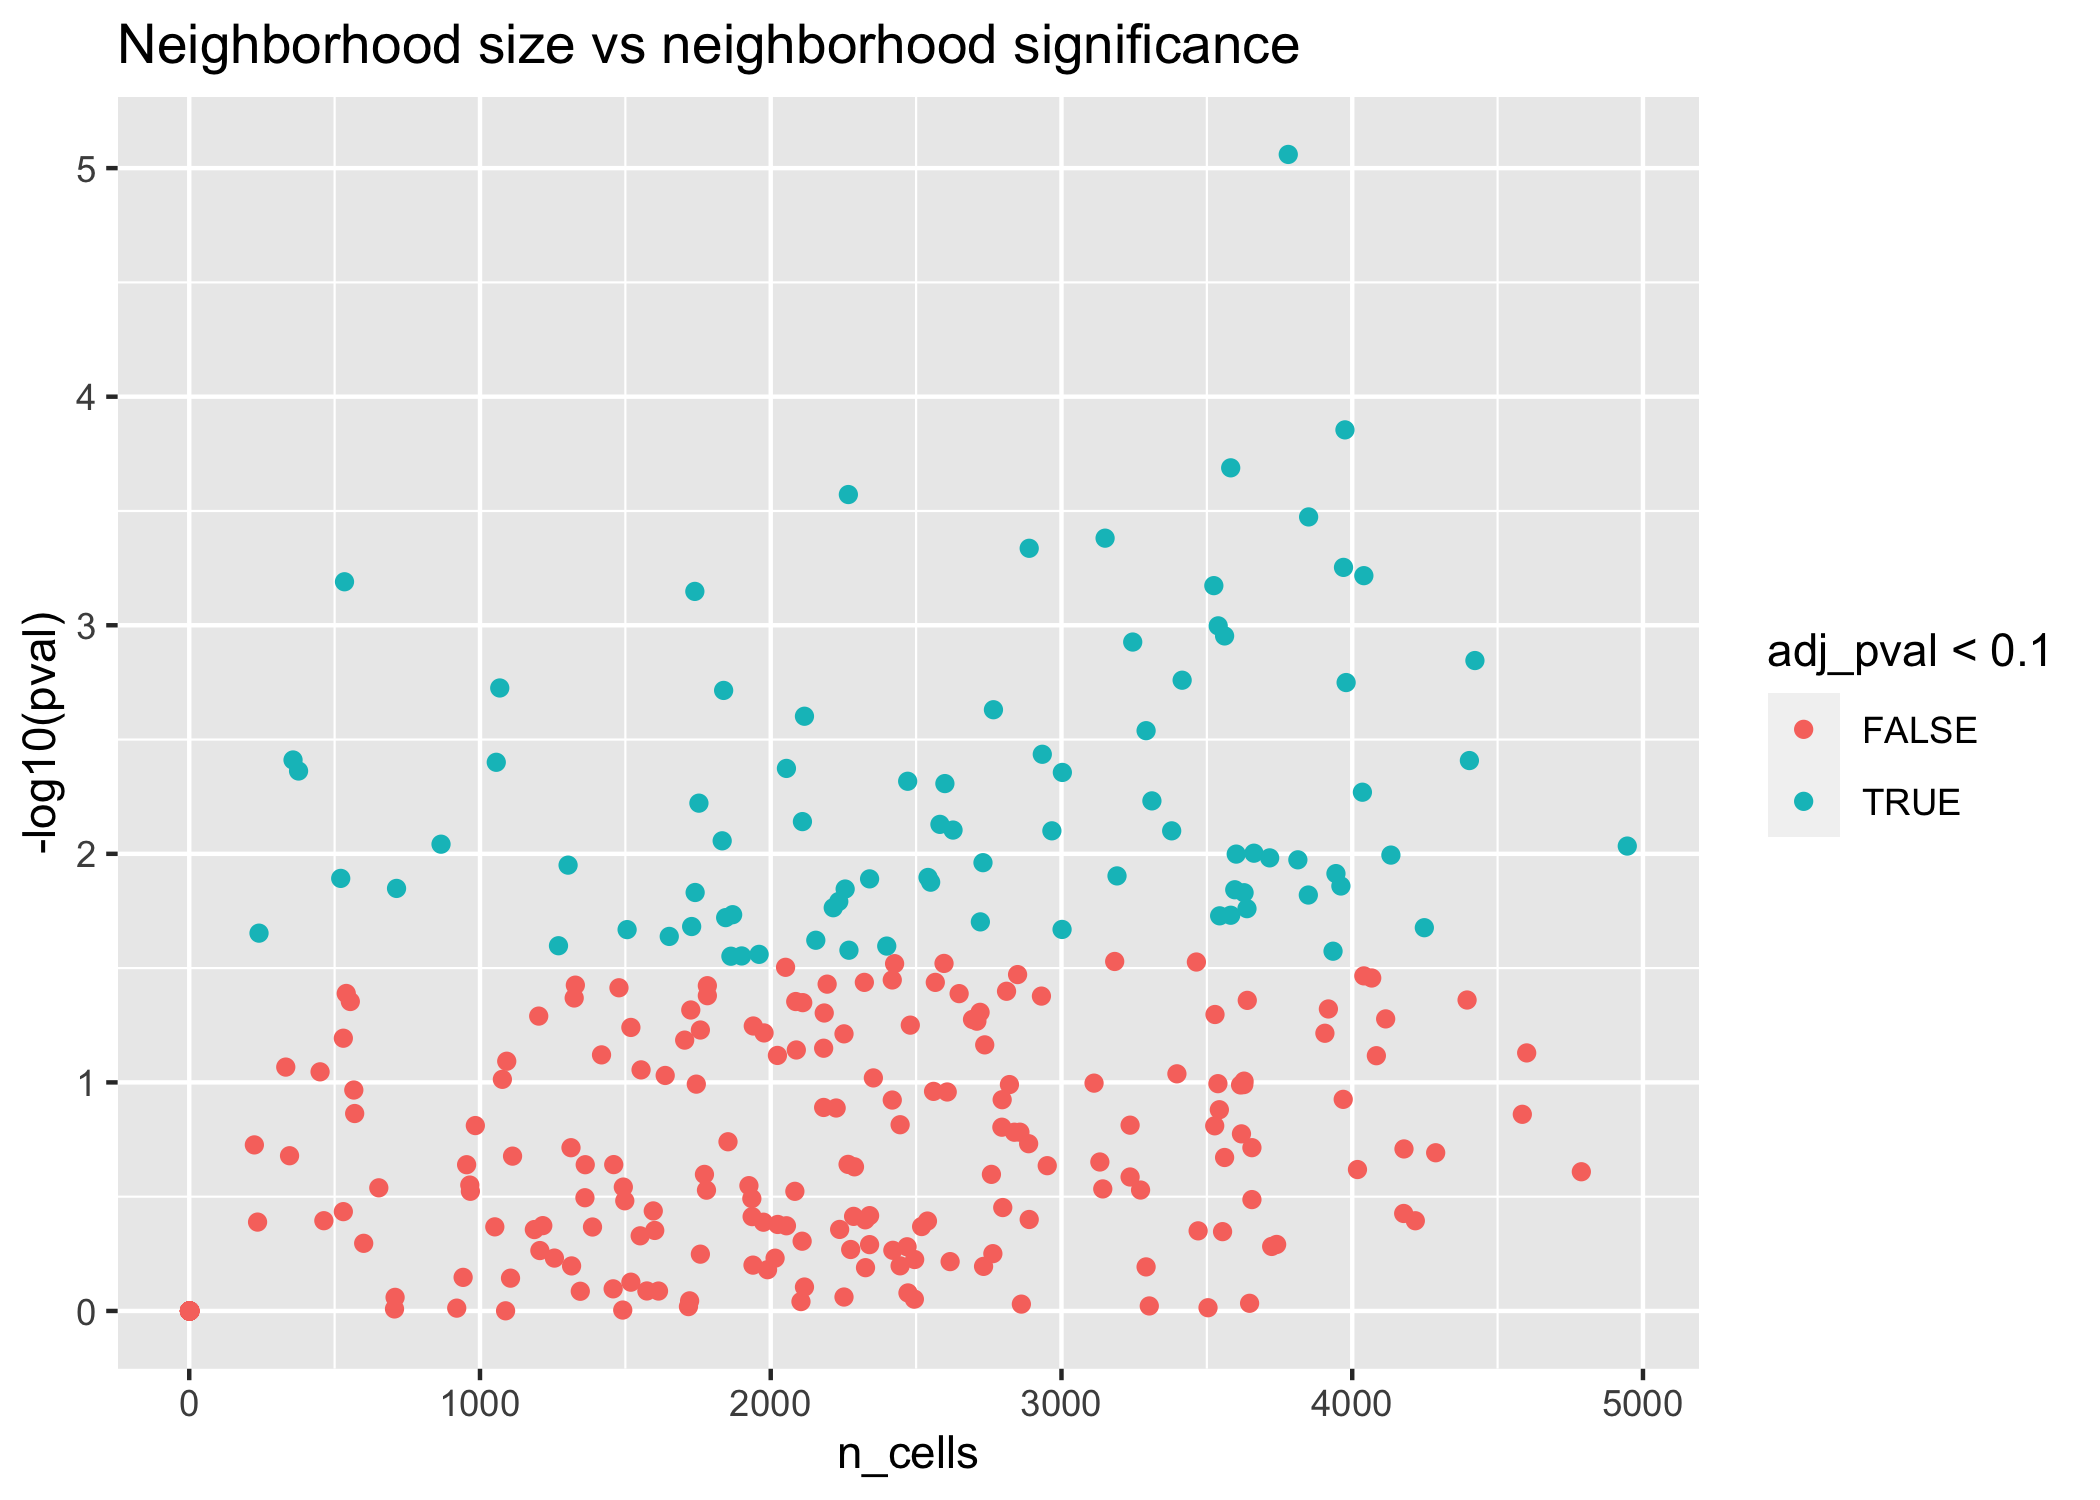
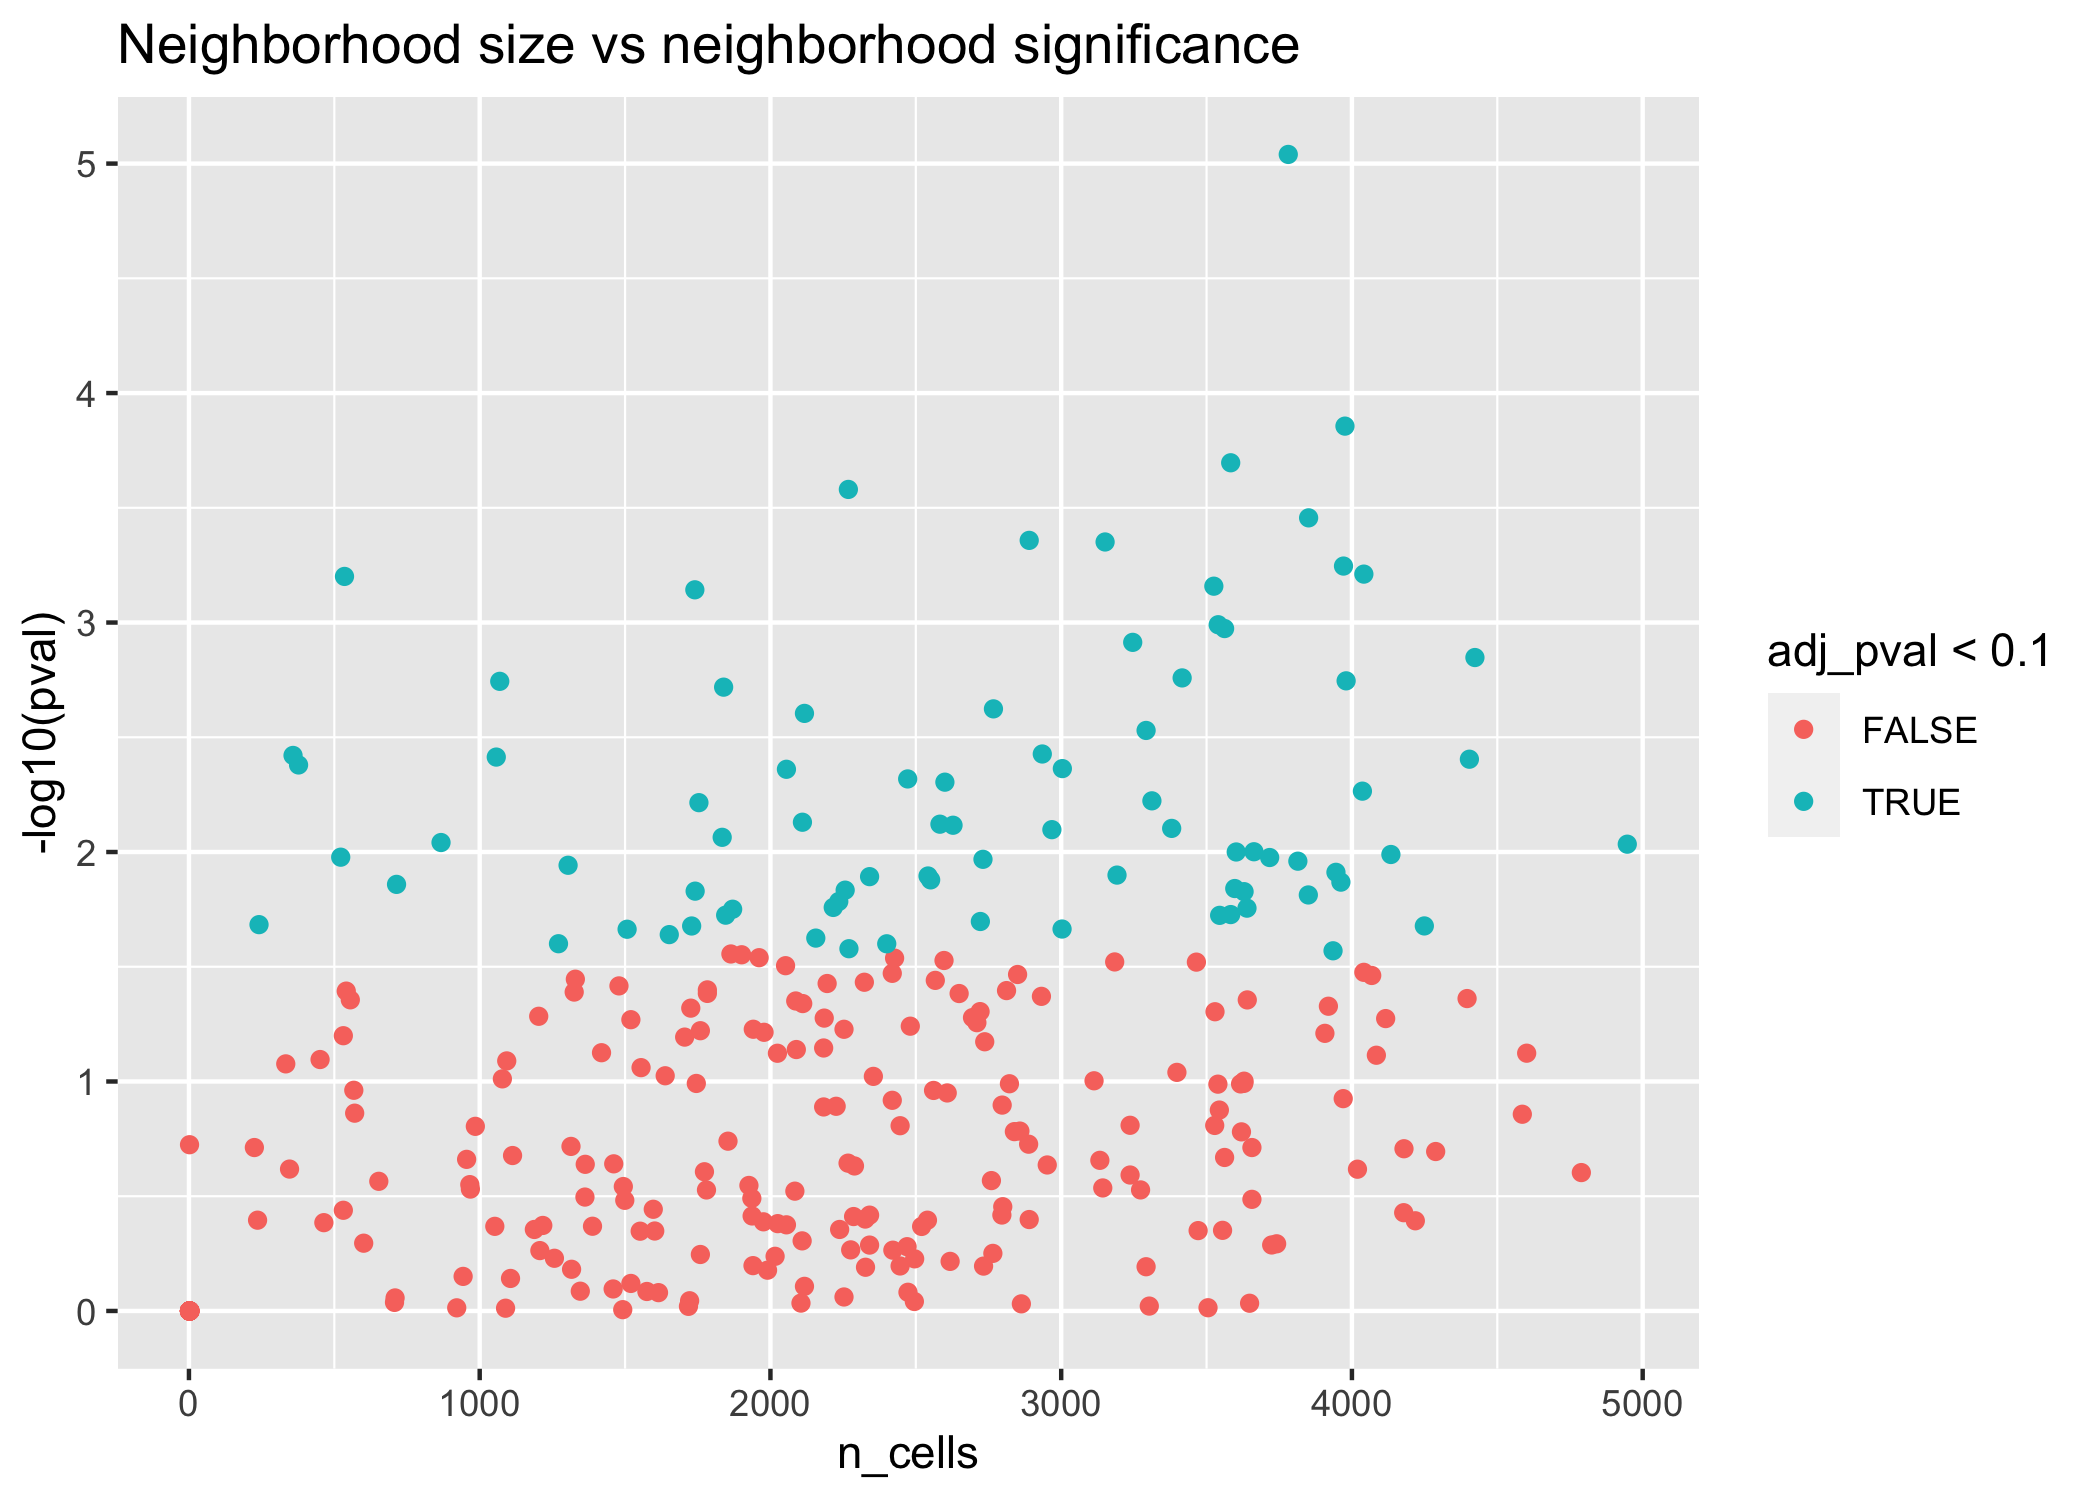
Update README

diff --git a/README.md b/README.md
@@ -7,26 +7,29 @@
 <!-- badges: end -->
 
 The goal of lemur is to enable easy analysis of multi-condition
-single-cell data. Lemur fits latent embedding regression, which means
-that it tries to find the PCA embedding for each condition and
-parameterizes the transition from one embedding to the other. For this
-task, lemur uses geodesic regression on the Grassmann manifold, which is
-solved efficiently using tangent-space linear modelling. The result is
-an interpretable model of the gene expression for arbitrary experimental
+single-cell data. Lemur fits latent embedding regression, which means it
+tries to find the PCA embedding for each condition and parameterizes the
+transition from one embedding to another. For this task, lemur uses
+geodesic regression on the Grassmann manifold, which is solved
+efficiently using tangent-space linear modeling. The result is an
+interpretable model of the gene expression for arbitrary experimental
 designs that can be expressed using a design matrix.
+
+![Schematic of the matrix decomposition at the core of
+LEMUR](man/figures/equation_schematic.png)
 
 ## Installation
 
 Lemur depends on features from
 [`glmGamPoi`](https://github.com/const-ae/glmGamPoi) which are only
 available in the development version, so please install `glmGamPoi` from
-Github before proceeding with lemur’s installation:
+GitHub before proceeding with lemur’s installation:
 
 ``` r
 devtools::install_github("const-ae/glmGamPoi")
 ```
 
-You can install the released version of lemur from Github
+You can install the released version of lemur from Github:
 
 ``` r
 devtools::install_github("const-ae/lemur")
@@ -34,12 +37,13 @@ devtools::install_github("const-ae/lemur")
 
 ## A word of caution
 
-This package is being actively developed and I am still making breaking
-changes. I am delighted if you decide to try out the package and please
-open an issue if you think you found a bug, have an idea for a cool
-feature, or any question about how LEMUR works. Consider this a *beta*
-release with the goal to gather feedback but be aware that code written
-against the current version of lemur might not work in the future.
+This package is being actively developed, and I am still making breaking
+changes. I would be delighted if you decide to try out the package, and
+please open an issue if you think you found a bug, have an idea for a
+cool feature, or have any questions about how LEMUR works. Consider this
+a *beta* release with the goal to gather feedback but be aware that code
+written against the current version of lemur might not work in the
+future.
 
 ## Quickstart
 
@@ -50,16 +54,16 @@ library(SingleCellExperiment)
 fit <- lemur(sce, design = ~ patient_id + condition, n_embedding = 15)
 fit <- align_harmony(fit)   # This step is optional
 fit <- test_de(fit, contrast = cond(condition = "ctrl") - cond(condition = "panobinostat"))
-nei <- find_de_neighborhoods(fit, counts = counts(sce), group_by = vars(patient_id, condition))
+nei <- find_de_neighborhoods(fit, independent_matrix = counts(sce), group_by = vars(patient_id, condition))
 ```
 
 ## Example
 
 We will demonstrate `lemur` using a dataset by Zhao et al. (2021). The
 data consists of tumor biopsies from five glioblastomas which were
-treated using panobinostat or used as a control. Accordingly there are
-ten samples (patient-treatment combinations) which we will analyze using
-a paired experimental design.
+treated using panobinostat or used as a control. Accordingly, we will
+analyze ten samples (patient-treatment combinations) using a paired
+experimental design.
 
 We start by loading some packages which are necessary to analyze the
 data:
@@ -111,9 +115,9 @@ as_tibble(orig_umap) %>%
 We fit the LEMUR model by calling `lemur()`. We provide the experimental
 design using a formula. The elements of the formula can refer to columns
 of the `colData` of the `SingleCellExperiment` object. We also set the
-number of latent dimensions which has a similar interpretation as the
+number of latent dimensions, which has a similar interpretation as the
 number of dimensions in PCA. Optionally, we can further align
-corresponding cells either using manually annotated cell types
+corresponding cells using manually annotated cell types
 (`align_by_grouping`) or an automated alignment procedure (e.g.,
 `align_harmony`, `align_neighbors`).
 
@@ -142,10 +146,10 @@ fit
 ```
 
 The `lemur()` function returns an object that extends
-`SingleCellExperiment` and thus supports subsetting and all the familiar
-data acessor methods (e.g., `nrow`, `assay`, `colData`, `rowData`). In
+`SingleCellExperiment` and thus supports subsetting and all the usual
+data accessor methods (e.g., `nrow`, `assay`, `colData`, `rowData`). In
 addition, `lemur` overloads the `$` operator to allow easy access to
-additional fields that are produced by the LEMUR model. For example the
+additional fields produced by the LEMUR model. For example, the
 low-dimensional embedding can be accessed using `fit$embedding`:
 
 ``` r
@@ -164,7 +168,7 @@ The `test_de` function takes a `lemur_fit_obj` and returns with a new
 assay `"DE"` with the predicted difference between two conditions
 specified in the `contrast`. Note that `lemur` implements a special
 notation for contrasts. Instead of providing a contrast vector or design
-matrix column names, you provide for each *condition* the levels and
+matrix column names, you provide for each *condition* the levels, and
 `lemur` automatically forms the contrast vector. This makes the contrast
 more readable.
 
@@ -196,30 +200,30 @@ the function uses a pseudobulked differential expression test to confirm
 the gene expression differences on the count level.
 
 ``` r
-neighborhoods <- find_de_neighborhoods(fit, counts = counts(glioblastoma_example_data),
+neighborhoods <- find_de_neighborhoods(fit, independent_matrix = counts(glioblastoma_example_data),
                                       group_by = vars(patient_id, condition),
                                       include_complement = FALSE, verbose = FALSE)
-#> dimnames(.) <- NULL translated to
-#> dimnames(.) <- list(NULL,NULL)
+
 as_tibble(neighborhoods) %>%
   arrange(pval) %>%
   left_join(as_tibble(rowData(fit)), by = c("name" = "gene_id"))
 #> # A tibble: 300 × 16
-#>    name        region indices n_cells   mean    pval adj_p…¹ f_sta…²   df1   df2
-#>    <chr>       <chr>  <I<lis>   <int>  <dbl>   <dbl>   <dbl>   <dbl> <int> <dbl>
-#>  1 ENSG000001… 1      <int>      3780  1.32  8.71e-6 0.00261   140.      1  6.80
-#>  2 ENSG000001… 1      <int>      3975  2.08  1.40e-4 0.0178     58.6     1  6.80
-#>  3 ENSG000001… 1      <int>      3582 -0.538 2.05e-4 0.0178     51.7     1  6.80
-#>  4 ENSG000001… 1      <int>      2267 -0.369 2.68e-4 0.0178     47.3     1  6.80
-#>  5 ENSG000001… 1      <int>      3850  0.637 3.36e-4 0.0178     43.9     1  6.80
-#>  6 ENSG000000… 1      <int>      3150 -0.290 4.16e-4 0.0178     40.9     1  6.80
-#>  7 ENSG000001… 1      <int>      2889 -1.49  4.61e-4 0.0178     39.5     1  6.80
-#>  8 ENSG000001… 1      <int>      3970  0.596 5.58e-4 0.0178     37.0     1  6.80
-#>  9 ENSG000000… 1      <int>      4040 -0.422 6.07e-4 0.0178     36.0     1  6.80
-#> 10 ENSG000001… 1      <int>       534  0.641 6.45e-4 0.0178     35.2     1  6.80
+#>    name      selec…¹ indices n_cells sel_s…²    pval adj_p…³ f_sta…⁴   df1   df2
+#>    <chr>     <lgl>   <I<lis>   <int>   <dbl>   <dbl>   <dbl>   <dbl> <int> <dbl>
+#>  1 ENSG0000… TRUE    <int>      3781    90.9 9.12e-6 0.00274   140.      1  6.77
+#>  2 ENSG0000… TRUE    <int>      3976   234.  1.39e-4 0.0180     59.1     1  6.77
+#>  3 ENSG0000… TRUE    <int>      3583   -96.5 2.01e-4 0.0180     52.4     1  6.77
+#>  4 ENSG0000… TRUE    <int>      2268   -42.6 2.63e-4 0.0180     48.0     1  6.77
+#>  5 ENSG0000… TRUE    <int>      3851   104.  3.50e-4 0.0180     43.6     1  6.77
+#>  6 ENSG0000… TRUE    <int>      2890  -189.  4.38e-4 0.0180     40.4     1  6.77
+#>  7 ENSG0000… TRUE    <int>      3151   -70.6 4.46e-4 0.0180     40.2     1  6.77
+#>  8 ENSG0000… TRUE    <int>      3971   104.  5.67e-4 0.0180     37.0     1  6.77
+#>  9 ENSG0000… TRUE    <int>      4041  -163.  6.15e-4 0.0180     36.0     1  6.77
+#> 10 ENSG0000… TRUE    <int>       535    42.7 6.30e-4 0.0180     35.7     1  6.77
 #> # … with 290 more rows, 6 more variables: lfc <dbl>, symbol <chr>,
 #> #   chromosome <fct>, gene_length <int>, strand. <fct>, source <fct>, and
-#> #   abbreviated variable names ¹adj_pval, ²f_statistic
+#> #   abbreviated variable names ¹selection, ²sel_statistic, ³adj_pval,
+#> #   ⁴f_statistic
 ```
 
 We can now specifically select regions with significant differential
@@ -263,8 +267,8 @@ as_tibble(umap) %>%
 
 <img src="man/figures/README-umap_de3-1.png" width="100%" />
 
-To get a better idea of the expression differences across all genes, we
-make a vulcano plot of the differential expression results.
+We make a volcano plot of the differential expression results to better
+understand the expression differences across all genes.
 
 ``` r
 neighborhoods %>%
@@ -283,6 +287,50 @@ neighborhoods %>%
 ```
 
 <img src="man/figures/README-volcano_plot-2.png" width="100%" />
+
+# FAQ
+
+> I have already integrated my data using Harmony / MNN / Seurat. Can I
+> call `lemur` directly with the aligned data?
+
+No. You need to call `lemur` with the unaligned data so that it can
+learn how much the expression of each gene changes between conditions.
+What you can do, though, is to use the aligned data as a template for
+lemur’s alignment step (`align_template`).
+
+> Can I call lemur with
+> [sctransformed](https://github.com/satijalab/sctransform) instead of
+> log-transformed data?
+
+Yes. You can call lemur with any variance stabilized count matrix. Based
+on a [previous
+project](https://www.biorxiv.org/content/10.1101/2021.06.24.449781v4), I
+recommend to use log-transformation, but other methods will work just
+fine.
+
+> My data appears less integrated after calling `lemur()` than before.
+> What is happening?!
+
+This is a known issue and can be caused if the data has large
+compositional shifts (for example, if one cell type disappears). The
+problem is that the initial linear regression step, which centers the
+conditions relative to each other, overcorrects and introduces a
+consistent shift in the latent space. I am currently trying to develop a
+generic solution for this problem, but until this is implemented, you
+can manually fix the regression coefficients:
+
+``` r
+fit <- lemur(sce, design = ~ patient_id + condition, n_embedding = 15, linear_coefficients = 0)
+```
+
+> The conditions still separate if I plot the data using UMAP / tSNE.
+> Even after calling `align_harmony` / `align_neighbors`. What should I
+> do?
+
+You can try to increase `n_embedding`. If this still does not help,
+there is little use in inferring differential expression neighborhoods.
+But as I haven’t encountered such a dataset yet, I would like to try it
+out myself. If you can share the data publicly, please open an issue.
 
 # Session Info
 
@@ -314,7 +362,7 @@ sessionInfo()
 #> [15] GenomeInfoDb_1.34.9         IRanges_2.32.0             
 #> [17] S4Vectors_0.36.2            BiocGenerics_0.44.0        
 #> [19] MatrixGenerics_1.10.0       matrixStats_0.63.0         
-#> [21] lemur_0.0.8                
+#> [21] lemur_0.0.10               
 #> 
 #> loaded via a namespace (and not attached):
 #>  [1] splines_4.2.1             DelayedMatrixStats_1.20.0
